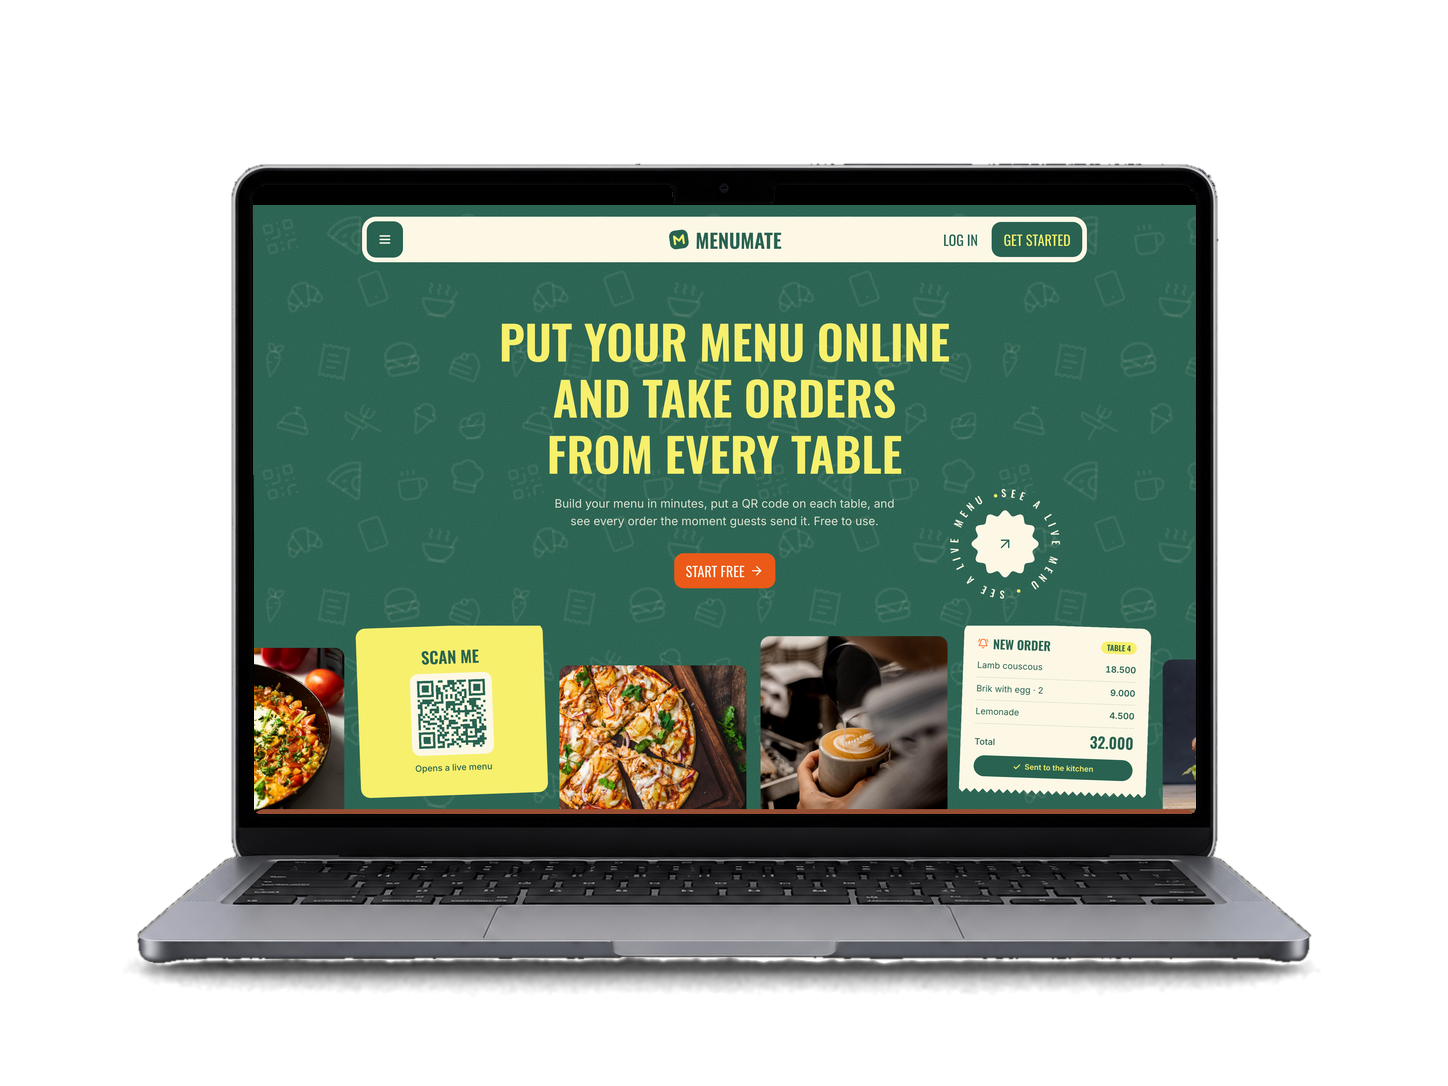
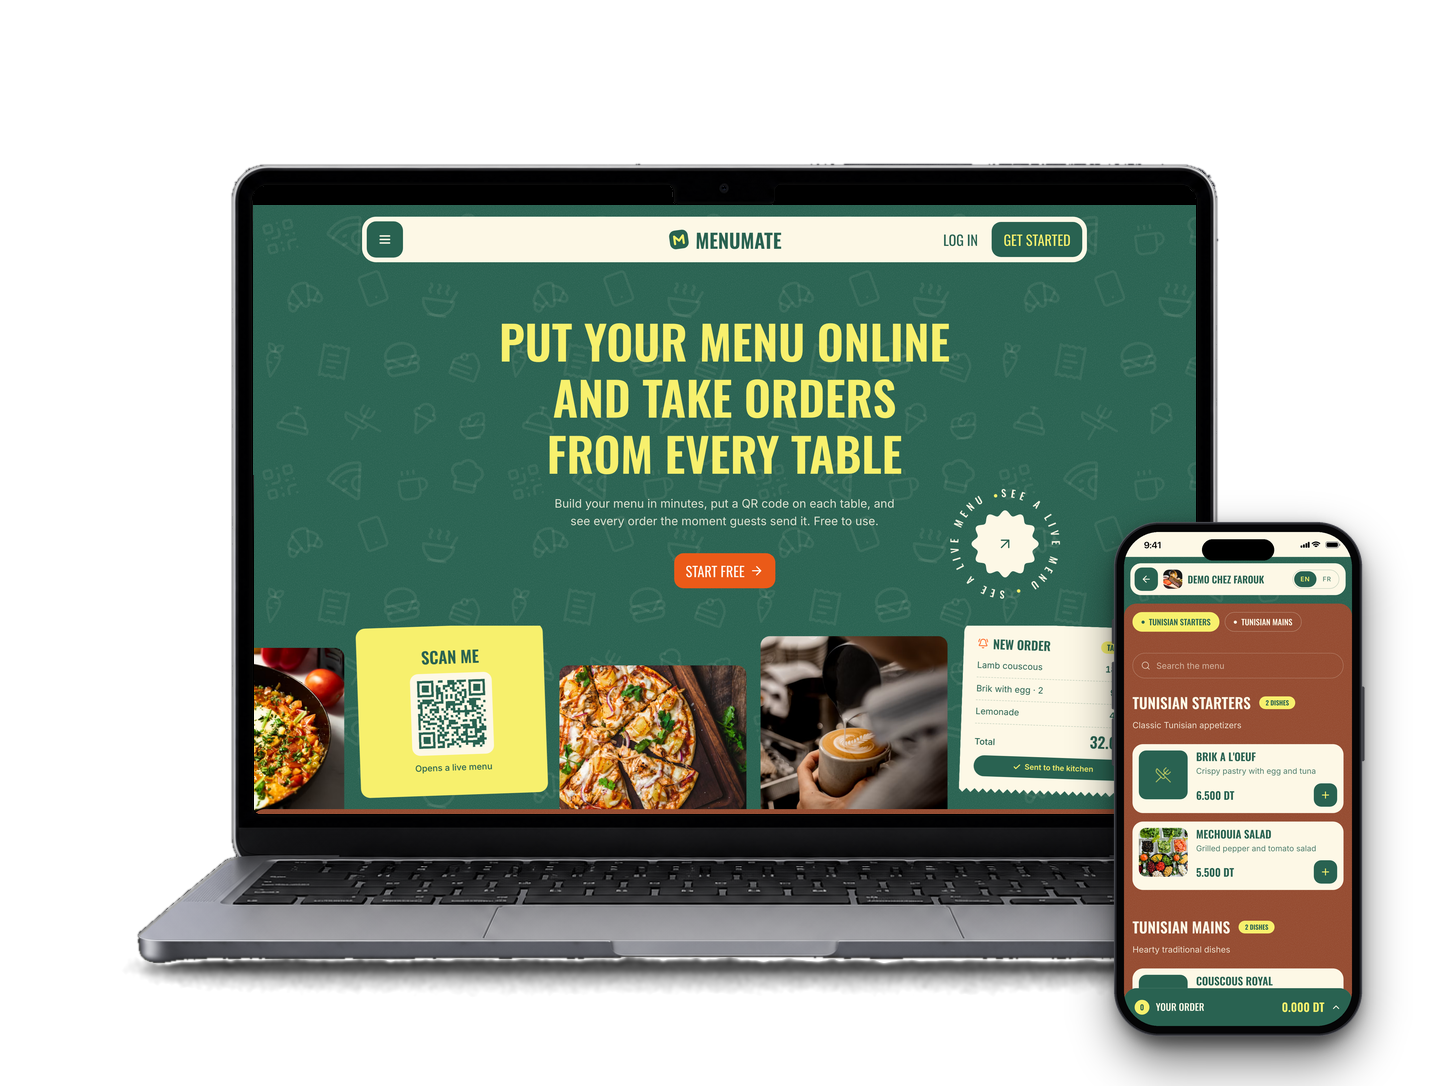
Show each project's tech stack and add a phone to the MenuMate mockup
- Bring back the tech tags on project cards, with LeBonBureau on Medusa
  and Resume Studio on TypeScript, jsPDF and docx
- Show the Chez Farouk menu on a phone next to the MenuMate MacBook
- Soften the contact page intro

Changed region(s): [[0.7459, 0.4558, 0.9634, 1.0]]

diff --git a/website/src/components/home/projects-section.jsx b/website/src/components/home/projects-section.jsx
@@ -9,24 +9,28 @@ const projects = [
     tag: "Digital menus for restaurants",
     href: "https://menumate.net",
     image: "/projects/menumate-demo.png",
+    tech: ["Next.js", "React", "Tailwind", "Supabase", "PostgreSQL"],
   },
   {
     name: "Karta",
     tag: "Gift card store",
     href: "https://karta.alabaganne.com",
     image: "/projects/karta-demo.png",
+    tech: ["Next.js", "TypeScript", "Tailwind", "MySQL", "Drizzle"],
   },
   {
     name: "PromptStream",
     tag: "AI dictation for Mac & Linux",
     href: "https://promptstream.alabaganne.com",
     image: "/projects/promptstream-demo.png",
+    tech: ["Electron", "React", "TypeScript", "Next.js", "Supabase"],
   },
   {
     name: "BackupMaster",
     tag: "iPhone backups on macOS",
     href: "https://backupmaster.alabaganne.com",
     image: "/projects/backupmaster-demo.png",
+    tech: ["Swift", "SwiftUI", "libimobiledevice", "Next.js", "SQLite"],
   },
   {
     name: "EXODIA Store",
@@ -34,66 +38,77 @@ const projects = [
     href: "https://exodia-preview.myshopify.com/",
     previewPassword: "paglow",
     image: "/projects/exodia-demo.png",
+    tech: ["Shopify", "Liquid", "JavaScript", "CSS"],
   },
   {
     name: "Internly",
     tag: "Internship platform",
     href: "/projects/internly",
     image: "/projects/internly-demo.png",
+    tech: ["Laravel", "Vue.js", "Inertia.js", "MySQL", "Pusher"],
   },
   {
     name: "ABSoft",
     tag: "Agency website",
     href: "https://absoft.alabaganne.com",
     image: "/projects/absoft-demo.png",
+    tech: ["Next.js", "React", "TypeScript", "CSS Modules", "Resend"],
   },
   {
     name: "Taroura Arena",
     tag: "Gym & karate club website",
     href: "https://taroura-arena.alabaganne.com/",
     image: "/projects/taroura-arena-demo.png",
+    tech: ["HTML", "CSS", "JavaScript"],
   },
   {
     name: "Martinez Auto Detail",
     tag: "Booking system",
     href: "https://booking.martinezautodetailwa.com/",
     image: "/projects/martinez-demo.png",
+    tech: ["Next.js", "React", "Tailwind", "Square API"],
   },
   {
     name: "Satoripop RH",
     tag: "HR platform",
     href: "http://hr-management.alabaganne.com",
     image: "/projects/satoripop-rh-demo.png",
+    tech: ["Vue.js", "Laravel", "MySQL", "Bootstrap", "Swagger"],
   },
   {
     name: "LeBonBureau",
     tag: "Office furniture store",
     href: "https://lebonbureau.alabaganne.com",
     image: "/projects/lebonbureau-demo.png",
+    tech: ["Next.js", "Medusa", "TypeScript", "Tailwind"],
   },
   {
     name: "Socialura",
     tag: "WordPress Store with Stripe checkout",
     href: "http://socialura.alabaganne.com",
     image: "/projects/socialura-demo.png",
+    tech: ["WordPress", "CSS", "Stripe", "Custom UI"],
   },
   {
     name: "Meet",
     tag: "Video meeting app",
     href: "http://jitsi.alabaganne.com",
     image: "/projects/meet-demo.png",
+    tech: ["React", "TypeScript", "Node.js", "Express.js", "MySQL", "Jitsi SDK"],
   },
   {
     name: "Resume Studio",
     tag: "Résumés with PDF & Word export",
     href: "https://react-resume-studio.vercel.app",
     image: "/projects/resume-studio-demo.png",
+    tech: ["Next.js", "TypeScript", "Tailwind", "jsPDF", "docx"],
   },
   {
     name: "Eyedeal",
     tag: "Store landing page",
     href: "http://ecommerce.alabaganne.com",
     image: "/projects/eyedeal-demo.png",
+    tech: ["HTML", "CSS", "JavaScript", "Bootstrap"],
   },
 ];
 

diff --git a/website/src/components/home/project-card.jsx b/website/src/components/home/project-card.jsx
@@ -2,8 +2,9 @@ import Image from "next/image";
 import { ArrowUpRight } from "lucide-react";
 
 import { SmartLink } from "@/components/ui/smart-link";
+import { Tag } from "@/components/ui/tag";
 
-// Irene-style work card: the mockup on black, then the project name and tagline.
+// Irene-style work card: the mockup on black, then the project name, tagline and tech.
 export function ProjectCard({ project, hidden = false }) {
   return (
     <SmartLink
@@ -14,7 +15,7 @@ export function ProjectCard({ project, hidden = false }) {
     >
       <span className="relative block aspect-[4/3]">
         <Image
-          src={`${project.image}?v=20260927-3`}
+          src={`${project.image}?v=20260927-4`}
           alt={`${project.name} demo`}
           fill
           draggable={false}
@@ -34,6 +35,13 @@ export function ProjectCard({ project, hidden = false }) {
         {project.previewPassword ? (
           <span className="mt-2 block text-sm text-fg-faint">
             Password <span className="font-medium text-fg-muted">{project.previewPassword}</span>
+          </span>
+        ) : null}
+        {project.tech ? (
+          <span className="mt-4 flex flex-wrap gap-2">
+            {project.tech.map((item) => (
+              <Tag key={item}>{item}</Tag>
+            ))}
           </span>
         ) : null}
       </span>

diff --git a/website/src/app/(site)/contact/page.jsx b/website/src/app/(site)/contact/page.jsx
@@ -50,9 +50,8 @@ export default function ContactPage() {
         }
         description={
           <>
-            I’m open to <span className="whitespace-nowrap">full-time</span> roles,{" "}
-            <span className="whitespace-nowrap">part-time</span> contracts and freelance projects. Tell me about your
-            team or your project, or just say hi.
+            I’m always happy to talk about ideas, projects and collaborations. Tell me what you’re working on, or just
+            say hi.
           </>
         }
       />

diff --git a/website/PROJECT-IMAGE-PROMPTS.md b/website/PROJECT-IMAGE-PROMPTS.md
@@ -59,7 +59,7 @@ Add the phone only when the request asks for it. By default, show the MacBook al
 - Size on the 1448 x 1086 canvas: 248 x 514 px, bottom right corner at x=1362, y=1036, standing in front of the laptop's right corner.
 - Corner radius 45 px, screen inset 10 px, Dynamic Island 72 x 21 px, side buttons on both sides, soft black shadow.
 - iOS status bar (9:41, signal, wifi, battery), 47 css px tall, in the site's `theme-color`, like Safari. Pass the color with `--bar`.
-- The phone can show a different page of the same project when that tells the story better. For example, MenuMate's landing page on the MacBook and a restaurant's public menu page on the phone. ABSoft and Taroura Arena show the MacBook only.
+- The phone can show a different page of the same project when that tells the story better. For example, MenuMate's landing page on the MacBook and the Chez Farouk menu (`menumate.net/en/chez-farouk`) on the phone, with `--bar "#FDF8E6"`. ABSoft and Taroura Arena show the MacBook only.
 - The phone screen should end cleanly, with no content cut at the bottom. If the hero doesn't fit, fix the site's mobile layout.
 
 ### Project pages with more screenshots
